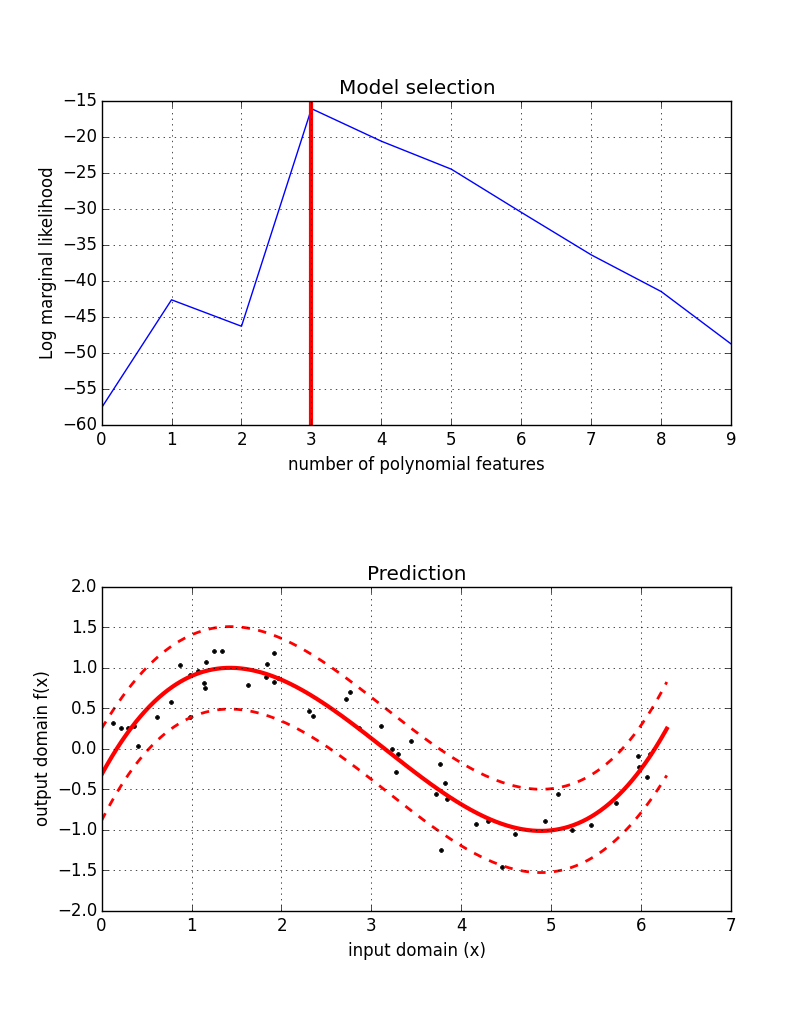
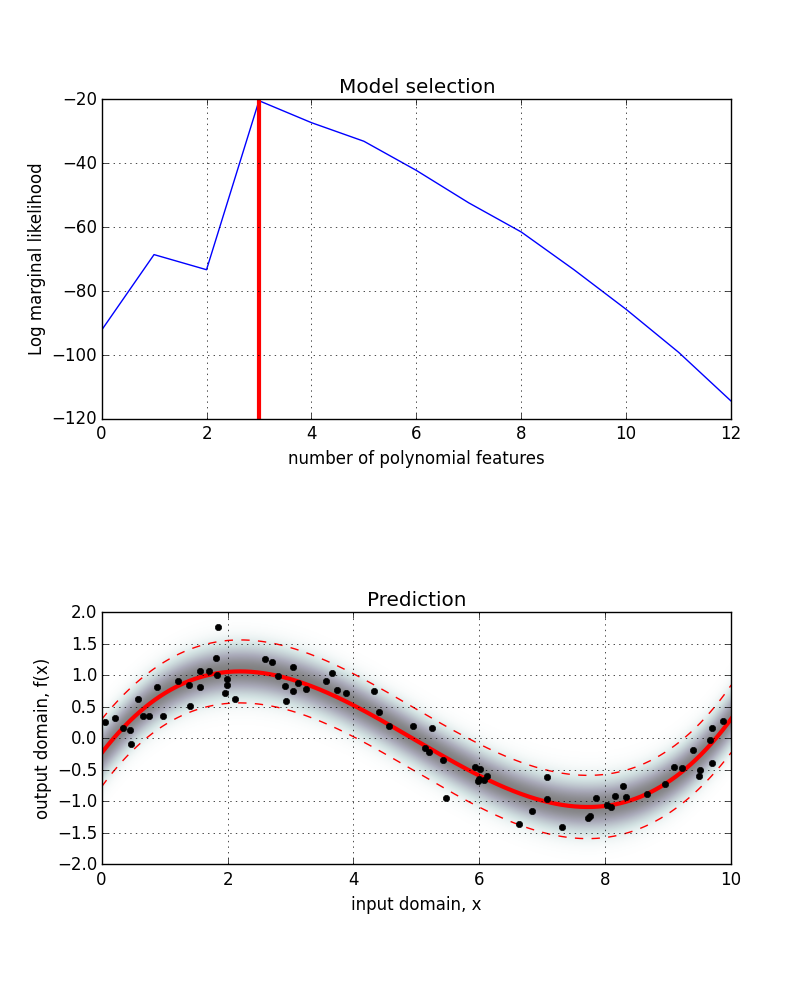
predict: Added option to compute X/Y likelihood
- The predict function can now return the likelihood of an X/Y
      query.

diff --git a/linear_model.py b/linear_model.py
@@ -310,7 +310,7 @@ class BayesianLinearModel(object):
                                       y.T.dot(y) -
                                       mu_N.T.dot(S_N.dot(mu_N))))
 
-    def predict(self, X, variance=False):
+    def predict(self, X, y=None, variance=False):
         r"""Calculate posterior predictive values.
 
         Given a new set of test inputs, :math:`\tilde{\mathbf{X}}`, predict the
@@ -329,17 +329,30 @@ class BayesianLinearModel(object):
                              2a_N
                        \right)
 
+        The data likelihood can also be requested by specifying both a set of
+        test inputs, :math:`\tilde{\mathbf{X}}` and a set of test output,
+        :math:`\tilde{\mathbf{y}}`, locations.
+
         Args:
           X (|ndarray|): (N x M) input query locations
             (:math:`\tilde{\mathbf{X}}`) to perform prediction.
+          y (|ndarray|, *optional*): (K x 1) output query locations
+            (:math:`\tilde{\mathbf{y}}`) to request data likelihood.
           variance (|bool|, *optional*): set to |True| to return the 95%
             confidence intervals. Default is set to |False|.
 
         Returns:
-          |ndarray| or |tuple|: If ``variance`` is set to |False| only the
-            predicted values are returned as a (N x 1) array. If ``variance``
-            is set to |True| a tuple is returned containing both the predicted
-            values (N x 1) and the 95% confidence intervals (N x 1).
+          |ndarray| or |tuple|:
+            * |ndarray|: By default only the predicted means are returned as a
+              (N x 1) array.
+            * (|ndarray|, |ndarray|): If ``variance`` is set to |True| a tuple
+              is returned containing both the predicted means (N x 1) and the
+              95% confidence intervals (N x 1).
+            * (|ndarray|, |ndarray|, |ndarray|): If ``y`` is set, the value of
+              ``variance`` is ignored and the predicted means and 95%
+              confidence intervals are returned. The final returned value is a
+              (K x N) matrix of likelihood values where each row represents an
+              element in ``y`` and each column represents a row in ``X``.
 
         """
 
@@ -350,9 +363,9 @@ class BayesianLinearModel(object):
         #     Eq 7.76 ref [1]
         m_hat = np.dot(phi, self.__mu_N)
 
-        # Calculate mean and variance.
+        # Calculate variance.
         #     Eq 7.76 ref [1]
-        if variance:
+        if (y is not None) or variance:
             # Note that the scaling parameter is not equal to the variance in
             # the general case. In the limit, as the number of degrees of
             # freedom reaches infinity, the scale parameter becomes equivalent
@@ -375,7 +388,20 @@ class BayesianLinearModel(object):
             #
             ci = scipy.stats.t.ppf(0.975, 2 * self.__alpha_N)
 
-            return (m_hat, ci * S_hat[:, np.newaxis])
+            # Return mean and 95% confidence interval.
+            if y is None:
+                return (m_hat, ci * S_hat[:, np.newaxis])
+
+            # Return mean, 95% confidence interval and likelihood.
+            else:
+                N = phi.shape[0]
+                M = y.size
+                l = scipy.stats.t.pdf(y.reshape((M, 1)),
+                                      df=2 * self.__alpha_N,
+                                      loc=m_hat.reshape((1, N)),
+                                      scale=S_hat.reshape((1, N)))
+
+                return (m_hat, ci * S_hat[:, np.newaxis], l)
 
         else:
             return m_hat

diff --git a/example/example.py b/example/example.py
@@ -1,4 +1,5 @@
 import numpy as np
+from matplotlib import cm
 import matplotlib.pyplot as plt
 from linear_model import BayesianLinearModel
 from sklearn.preprocessing import PolynomialFeatures
@@ -7,15 +8,18 @@ np.random.seed(42)
 # Create polynomial features in basis function expansion.
 polybasis = lambda x, p: PolynomialFeatures(p).fit_transform(x)
 
+# Create sine function.
+func = lambda x: np.sin(((2*np.pi)/10)*x)
+
 # Create random sin() data.
-N = 50
+N = 75
 noise = 0.25
-X = np.sort(np.random.uniform(0, 2*np.pi, N)).reshape((N, 1))
-y = np.sin(X) + np.random.normal(scale=noise, size=(N, 1))
+X = np.sort(np.random.uniform(0, 10, N)).reshape((N, 1))
+y = func(X) + np.random.normal(scale=noise, size=(N, 1))
 
 # Calculate log marginal likelihood (model evidence) for each model.
 lml = list()
-for d in range(10):
+for d in range(13):
     blm = BayesianLinearModel(basis=lambda x: polybasis(x, d))
     blm.update(X, y)
     lml.append(blm.evidence())
@@ -26,8 +30,9 @@ blm = BayesianLinearModel(basis=lambda x: polybasis(x, D))
 blm.update(X, y)
 
 # Perform inference in the model.
-x_query = np.linspace(0, 2*np.pi, 1000)[:, None]
-mu, S2 = blm.predict(x_query, variance=True)
+x_query = np.linspace(0, 10, 1000)[:, None]
+y_query = np.linspace(-2, 2, 500)
+mu, S2, l = blm.predict(x_query, y=y_query, variance=True)
 
 # Plot model selection.
 f, (ax1, ax2) = plt.subplots(2, 1, figsize=(8, 10))
@@ -40,12 +45,14 @@ ax1.axvline(D, color='r', linewidth='3')
 ax1.grid('on')
 
 # Plot model predictions.
-ax2.plot(X, y, 'k.')
-ax2.plot(x_query, mu + S2, 'r--', linewidth=2)
+ext = [0, 10, -2., 2.]
+ax2.imshow(l, origin='lower', extent=ext, cmap=cm.bone_r, alpha=0.5)
+ax2.plot(x_query, mu + S2, 'r--', linewidth=1)
 ax2.plot(x_query, mu, 'r', linewidth=3)
-ax2.plot(x_query, mu - S2, 'r--', linewidth=2)
+ax2.plot(x_query, mu - S2, 'r--', linewidth=1)
+ax2.plot(X, y, 'k.', markersize=10)
 ax2.set_title('Prediction')
-ax2.set_xlabel('input domain (x)')
-ax2.set_ylabel('output domain f(x)')
+ax2.set_xlabel('input domain, x')
+ax2.set_ylabel('output domain, f(x)')
 ax2.grid('on')
 plt.show()
